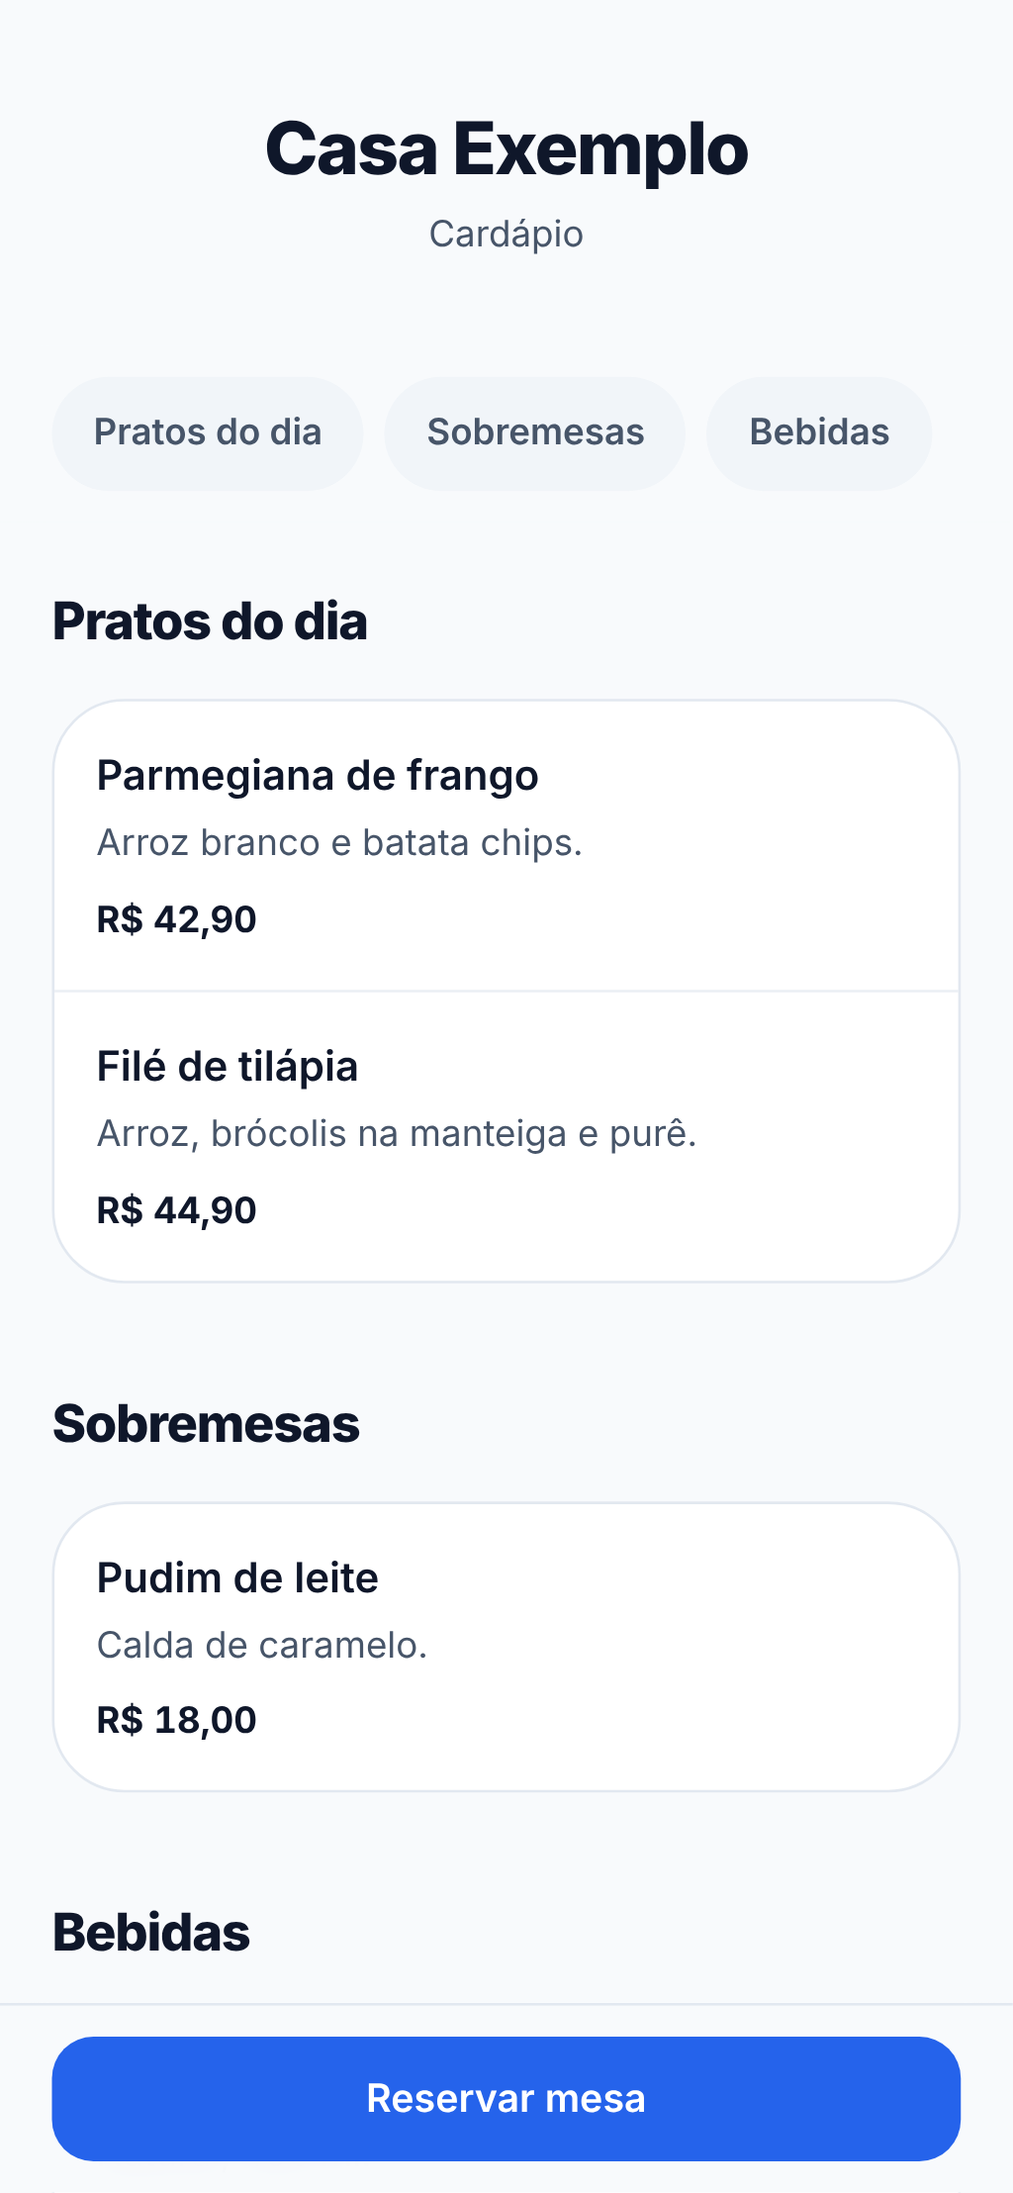
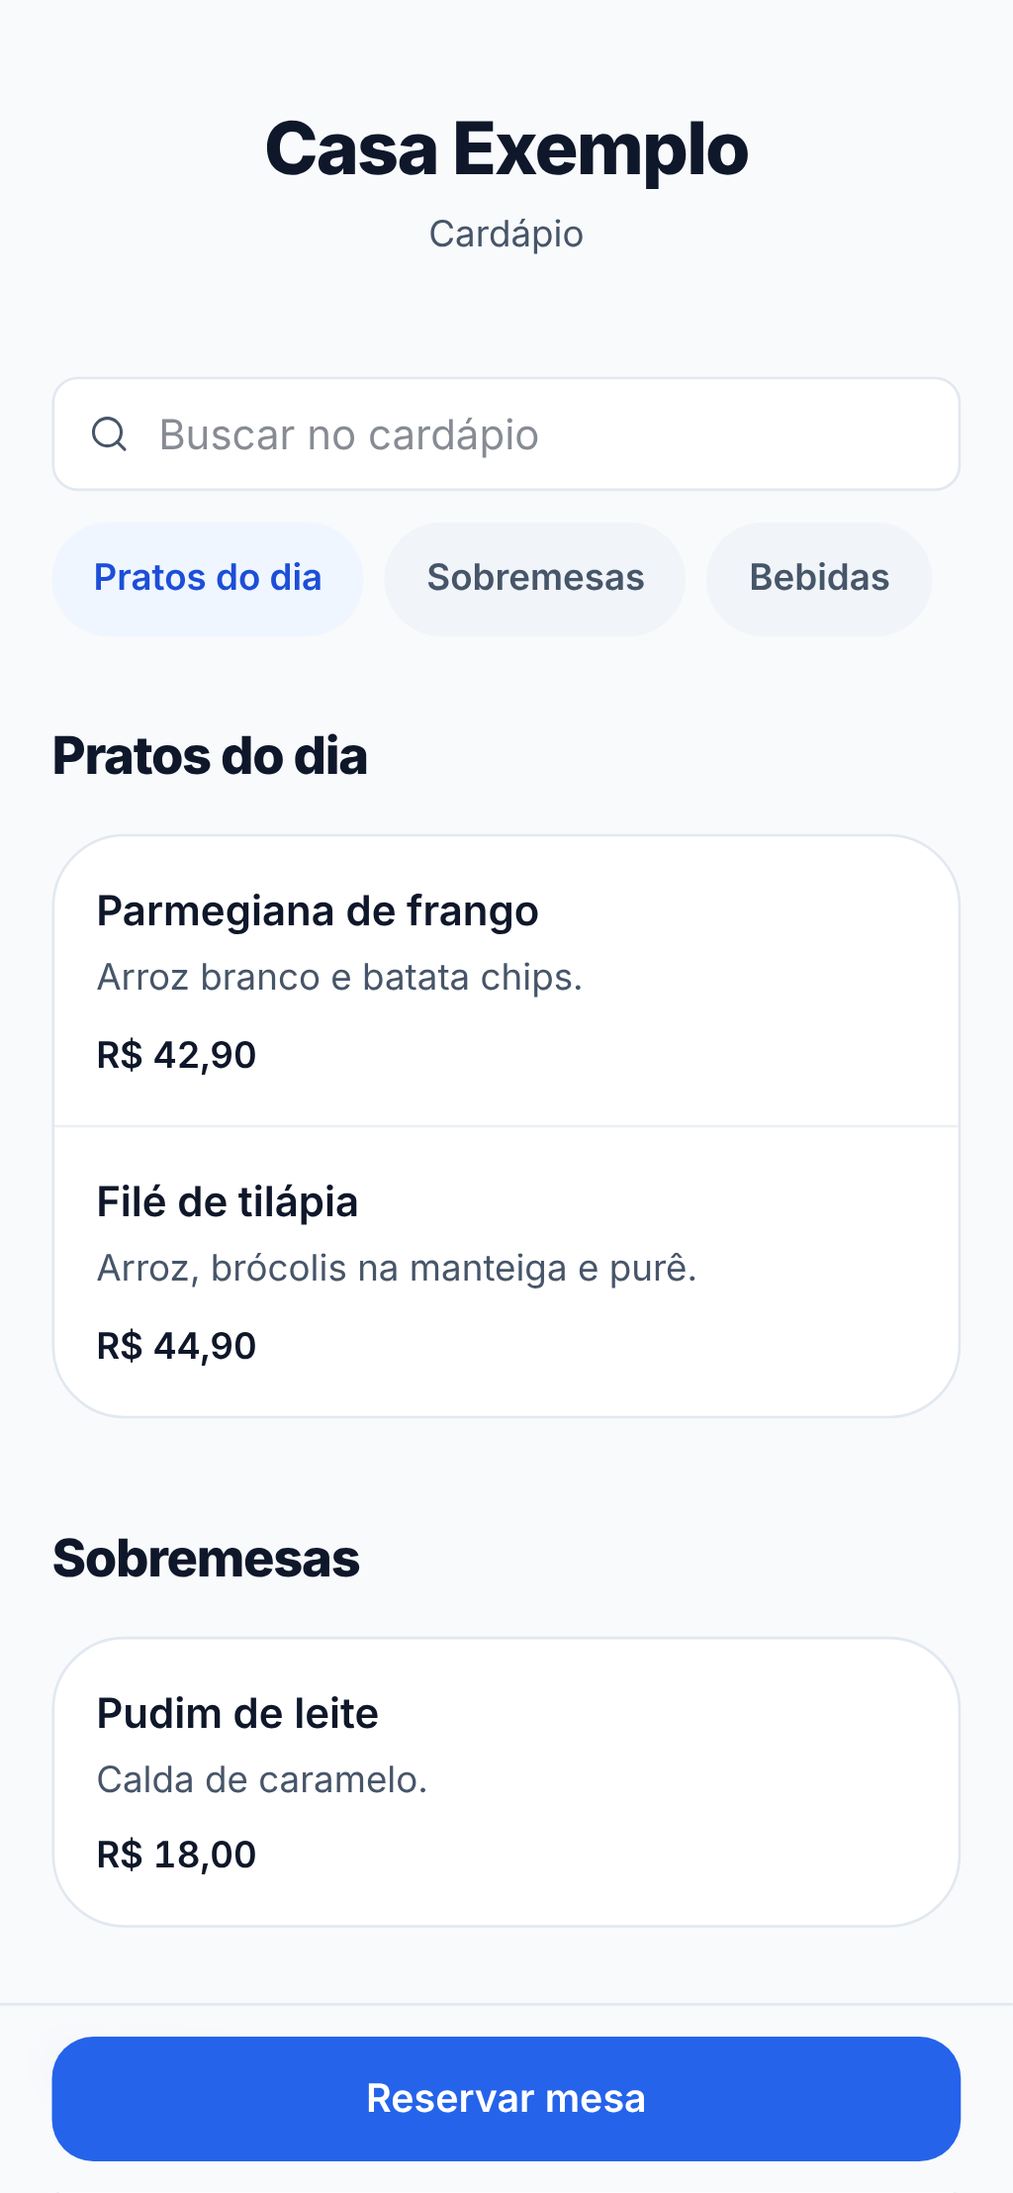
chore(polish): alias brand no lugar de terracotta, sem peso 700, QA responsivo em 14 tamanhos, screenshots do site recapturados, docs de arquitetura
Claude-Session: https://claude.ai/code/session_01EQxCH93FwfJ8YpbqgebvWk

diff --git a/src/routes/$slug.reservar.$tipo.tsx b/src/routes/$slug.reservar.$tipo.tsx
@@ -253,7 +253,7 @@ function ReservarPage() {
         </Link>
 
         <header className="mt-6 animate-fade">
-          <p className="text-xs font-semibold uppercase tracking-[0.08em] text-terracotta">
+          <p className="text-xs font-semibold uppercase tracking-[0.08em] text-brand">
             {tenantQ.data?.nome ?? "Reserva"}
           </p>
           <h1 className="mt-3 font-serif text-4xl leading-tight tracking-tight sm:text-5xl">
@@ -275,24 +275,24 @@ function ReservarPage() {
         </header>
 
         {isAniv && (
-          <section className="mt-6 rounded-lg border border-terracotta/25 bg-terracotta/5 p-5 animate-in-up">
+          <section className="mt-6 rounded-lg border border-brand/25 bg-brand/5 p-5 animate-in-up">
             <p className="font-serif font-semibold text-xl leading-snug sm:text-2xl">
               Vai ser um prazer comemorar seu aniversário no {tenantQ.data?.nome ?? "Iracema"}!
             </p>
             <ul className="mt-4 space-y-3 text-sm leading-relaxed text-muted-foreground">
               <li className="flex gap-2.5">
-                <Gift className="mt-0.5 h-4 w-4 shrink-0 text-terracotta" />
+                <Gift className="mt-0.5 h-4 w-4 shrink-0 text-brand" />
                 <span>
                   O aniversariante da semana ganha um drink ou uma sobremesa e também 10% do valor
                   gasto na própria comanda em cashback para uma próxima visita.
                 </span>
               </li>
               <li className="flex gap-2.5">
-                <Receipt className="mt-0.5 h-4 w-4 shrink-0 text-terracotta" />
+                <Receipt className="mt-0.5 h-4 w-4 shrink-0 text-brand" />
                 <span>A partir de 15 convidados, disponibilizamos comandas individuais.</span>
               </li>
               <li className="flex gap-2.5">
-                <Cake className="mt-0.5 h-4 w-4 shrink-0 text-terracotta" />
+                <Cake className="mt-0.5 h-4 w-4 shrink-0 text-brand" />
                 <span>
                   Pode trazer seu bolo! Nós guardamos e disponibilizamos pratos e talheres.
                 </span>
@@ -301,7 +301,7 @@ function ReservarPage() {
           </section>
         )}
         {isEvento && (
-          <section className="mt-6 space-y-4 rounded-lg border border-terracotta/25 bg-terracotta/5 p-5 animate-in-up">
+          <section className="mt-6 space-y-4 rounded-lg border border-brand/25 bg-brand/5 p-5 animate-in-up">
             <div>
               <p className="font-serif font-semibold text-xl leading-snug sm:text-2xl">
                 Orçamento — eventos particulares
@@ -313,7 +313,7 @@ function ReservarPage() {
 
             <div className="grid gap-4 sm:grid-cols-2">
               <div className="rounded-lg bg-card p-4">
-                <p className="flex items-center gap-2 text-xs font-semibold uppercase tracking-[0.08em] text-terracotta">
+                <p className="flex items-center gap-2 text-xs font-semibold uppercase tracking-[0.08em] text-brand">
                   <UtensilsCrossed className="h-3.5 w-3.5" /> Petiscos
                 </p>
                 <ul className="mt-2.5 space-y-1 text-sm text-muted-foreground">
@@ -327,7 +327,7 @@ function ReservarPage() {
               </div>
 
               <div className="rounded-lg bg-card p-4">
-                <p className="flex items-center gap-2 text-xs font-semibold uppercase tracking-[0.08em] text-terracotta">
+                <p className="flex items-center gap-2 text-xs font-semibold uppercase tracking-[0.08em] text-brand">
                   <Beer className="h-3.5 w-3.5" /> Bebidas
                 </p>
                 <ul className="mt-2.5 space-y-1 text-sm text-muted-foreground">
@@ -340,7 +340,7 @@ function ReservarPage() {
             </div>
 
             <div className="rounded-lg bg-card p-4">
-              <p className="flex items-center gap-2 text-xs font-semibold uppercase tracking-[0.08em] text-terracotta">
+              <p className="flex items-center gap-2 text-xs font-semibold uppercase tracking-[0.08em] text-brand">
                 <Receipt className="h-3.5 w-3.5" /> Valores (5 horas de evento)
               </p>
               <ul className="mt-2.5 space-y-1.5 text-sm">
@@ -367,7 +367,7 @@ function ReservarPage() {
             </div>
 
             <p className="flex gap-2.5 text-sm leading-relaxed text-muted-foreground">
-              <Wallet className="mt-0.5 h-4 w-4 shrink-0 text-terracotta" />
+              <Wallet className="mt-0.5 h-4 w-4 shrink-0 text-brand" />
               <span>Pagamento: 50% de sinal no ato da reserva e 50% restante no dia.</span>
             </p>
           </section>
@@ -434,7 +434,7 @@ function ReservarPage() {
           </div>
 
           {precisaHorario && ehFeriado && (
-            <p className="-mt-2 text-xs text-terracotta">
+            <p className="-mt-2 text-xs text-brand">
               {data && new Date(data + "T00:00:00").toLocaleDateString("pt-BR")} é feriado —
               horários de fim de semana.
             </p>
@@ -546,7 +546,7 @@ function ReservarPage() {
           <Button
             type="submit"
             disabled={!podeEnviar || enviando}
-            className="mt-2 w-full rounded-lg bg-terracotta text-terracotta-foreground hover:bg-blue-700 disabled:opacity-50"
+            className="mt-2 w-full rounded-lg bg-brand text-brand-foreground hover:bg-blue-700 disabled:opacity-50"
             style={{ height: 52 }}
           >
             {enviando ? (

diff --git a/src/routes/$slug.index.tsx b/src/routes/$slug.index.tsx
@@ -117,7 +117,7 @@ function TenantHome() {
               className="mb-4 h-14 w-auto object-contain"
             />
           )}
-          <p className="text-xs font-semibold uppercase tracking-[0.08em] text-terracotta">
+          <p className="text-xs font-semibold uppercase tracking-[0.08em] text-brand">
             {tenant.nome}
           </p>
           <h1 className="mt-6 font-serif text-[44px] leading-[1.05] tracking-tight text-foreground sm:text-6xl">
@@ -130,7 +130,7 @@ function TenantHome() {
         </header>
 
         {eventoQ.data && (
-          <div className="mt-8 overflow-hidden rounded-lg border border-terracotta/25 bg-terracotta/5 animate-in-up">
+          <div className="mt-8 overflow-hidden rounded-lg border border-brand/25 bg-brand/5 animate-in-up">
             {eventoQ.data.imagem_url && (
               <img
                 src={eventoQ.data.imagem_url}
@@ -139,13 +139,13 @@ function TenantHome() {
               />
             )}
             <div className="p-5">
-              <p className="flex items-center gap-1.5 text-xs font-semibold uppercase tracking-[0.08em] text-terracotta">
+              <p className="flex items-center gap-1.5 text-xs font-semibold uppercase tracking-[0.08em] text-brand">
                 <PartyPopper className="h-3.5 w-3.5" /> Evento em destaque
               </p>
               <p className="mt-2 font-serif font-semibold text-2xl leading-snug text-foreground">
                 {eventoQ.data.titulo}
               </p>
-              <p className="mt-1 text-sm font-medium text-terracotta">
+              <p className="mt-1 text-sm font-medium text-brand">
                 {formatData(eventoQ.data.data)}
                 {eventoQ.data.horario ? ` às ${formatHorario(eventoQ.data.horario)}` : ""}
               </p>
@@ -169,10 +169,10 @@ function TenantHome() {
                 onClick={() =>
                   trackFacebookCustomEvent(tenant.pixel_facebook_id, CLICK_RESERVA_EVENT[card.tipo])
                 }
-                className="group relative flex items-center gap-4 rounded-lg border border-border bg-card px-5 py-4 shadow-[var(--shadow-sm)] transition-all duration-200 hover:-translate-y-0.5 hover:border-terracotta/40 hover:shadow-[var(--shadow-md)] active:scale-[0.99] animate-in-up"
+                className="group relative flex items-center gap-4 rounded-lg border border-border bg-card px-5 py-4 shadow-[var(--shadow-sm)] transition-all duration-200 hover:-translate-y-0.5 hover:border-brand/40 hover:shadow-[var(--shadow-md)] active:scale-[0.99] animate-in-up"
                 style={{ animationDelay: `${60 + i * 50}ms` }}
               >
-                <div className="flex h-11 w-11 shrink-0 items-center justify-center rounded-md bg-cream text-terracotta transition-colors group-hover:bg-terracotta group-hover:text-terracotta-foreground">
+                <div className="flex h-11 w-11 shrink-0 items-center justify-center rounded-md bg-cream text-brand transition-colors group-hover:bg-brand group-hover:text-brand-foreground">
                   <Icon className="h-5 w-5" strokeWidth={1.75} />
                 </div>
                 <div className="min-w-0 flex-1">
@@ -181,7 +181,7 @@ function TenantHome() {
                     {card.descricao}
                   </p>
                 </div>
-                <ArrowRight className="h-4 w-4 shrink-0 text-muted-foreground transition-transform group-hover:translate-x-0.5 group-hover:text-terracotta" />
+                <ArrowRight className="h-4 w-4 shrink-0 text-muted-foreground transition-transform group-hover:translate-x-0.5 group-hover:text-brand" />
               </Link>
             );
           })}

diff --git a/e2e/responsivo.spec.ts b/e2e/responsivo.spec.ts
@@ -1,0 +1,81 @@
+import { expect, test } from "@playwright/test";
+
+import { installMock } from "./support/mock";
+
+/** QA responsivo: sem rolagem horizontal nem corte nas telas principais, em todos os tamanhos. */
+const TAMANHOS: Array<[string, number, number]> = [
+  ["mobile 320", 320, 568],
+  ["mobile 360", 360, 800],
+  ["mobile 390", 390, 844],
+  ["mobile 393", 393, 852],
+  ["mobile 430", 430, 932],
+  ["tablet 768", 768, 1024],
+  ["tablet 820", 820, 1180],
+  ["tablet 834", 834, 1194],
+  ["tablet 1024", 1024, 1366],
+  ["desktop 1280", 1280, 720],
+  ["desktop 1366", 1366, 768],
+  ["desktop 1440", 1440, 900],
+  ["desktop 1536", 1536, 864],
+  ["desktop 1920", 1920, 1080],
+];
+
+const PAGINAS = [
+  "/",
+  "/iracema",
+  "/iracema/links",
+  "/iracema/cardapio",
+  "/iracema/reservar/mesa",
+  "/iracema/admin",
+  "/iracema/admin/reservas",
+  "/iracema/admin/agenda",
+  "/iracema/admin/links",
+  "/iracema/admin/cardapio",
+  "/iracema/admin/configuracoes",
+];
+
+test.describe("QA responsivo", () => {
+  test.skip(({ isMobile }) => isMobile, "os tamanhos são definidos no próprio teste");
+
+  for (const [nome, w, h] of TAMANHOS) {
+    test(`sem overflow horizontal em ${nome}`, async ({ page, context }) => {
+      test.setTimeout(120_000);
+      await installMock(context);
+      await page.setViewportSize({ width: w, height: h });
+      for (const rota of PAGINAS) {
+        await page.goto(rota);
+        await page.waitForTimeout(450);
+        const over = await page.evaluate(
+          () => document.documentElement.scrollWidth - document.documentElement.clientWidth,
+        );
+        expect(over, `${rota} em ${w}x${h}`).toBeLessThanOrEqual(1);
+      }
+    });
+  }
+
+  test("alvos de toque do painel e do Link Hub têm pelo menos 44 px no celular", async ({
+    page,
+    context,
+  }) => {
+    await installMock(context);
+    await page.setViewportSize({ width: 390, height: 844 });
+    for (const rota of ["/iracema/links", "/iracema/admin"]) {
+      await page.goto(rota);
+      await page.waitForTimeout(500);
+      const pequenos = await page.evaluate(() =>
+        Array.from(document.querySelectorAll<HTMLElement>("a[href], button"))
+          .filter((el) => {
+            const r = el.getBoundingClientRect();
+            const visivel =
+              r.width > 0 && r.height > 0 && getComputedStyle(el).visibility !== "hidden";
+            return visivel && (r.height < 43.5 || r.width < 43.5);
+          })
+          .map(
+            (el) =>
+              `${el.tagName} "${(el.textContent ?? el.getAttribute("aria-label") ?? "").trim().slice(0, 30)}" ${Math.round(el.getBoundingClientRect().width)}x${Math.round(el.getBoundingClientRect().height)}`,
+          ),
+      );
+      expect(pequenos, rota).toEqual([]);
+    }
+  });
+});

diff --git a/src/routes/master.index.tsx b/src/routes/master.index.tsx
@@ -189,7 +189,7 @@ function MasterPanel() {
               </div>
               <Button
                 onClick={() => setOpenNew(true)}
-                className="h-11 rounded-md bg-terracotta text-terracotta-foreground hover:bg-blue-700"
+                className="h-11 rounded-md bg-brand text-brand-foreground hover:bg-blue-700"
               >
                 <Plus className="mr-1.5 h-4 w-4" /> Nova empresa
               </Button>
@@ -410,7 +410,7 @@ function NovoTenantDialog({
             <Button
               type="submit"
               disabled={pending}
-              className="bg-terracotta text-terracotta-foreground hover:bg-blue-700"
+              className="bg-brand text-brand-foreground hover:bg-blue-700"
             >
               {pending ? <Loader2 className="h-4 w-4 animate-spin" /> : "Criar"}
             </Button>
@@ -693,7 +693,7 @@ function AcessosDialog({
             <Button
               type="submit"
               disabled={criarM.isPending}
-              className="bg-terracotta text-terracotta-foreground hover:bg-blue-700"
+              className="bg-brand text-brand-foreground hover:bg-blue-700"
             >
               {criarM.isPending ? <Loader2 className="h-4 w-4 animate-spin" /> : "Adicionar"}
             </Button>

diff --git a/src/styles.css b/src/styles.css
@@ -107,8 +107,8 @@
   --color-input: var(--input);
   --color-ring: var(--ring);
   /* Nomes historicos mantidos (muitos consumidores); valores agora sao Teggly. */
-  --color-terracotta: var(--terracotta);
-  --color-terracotta-foreground: var(--terracotta-foreground);
+  --color-brand: var(--brand);
+  --color-brand-foreground: var(--brand-foreground);
   --color-cream: var(--cream);
   --color-brown: var(--brown);
   --color-success: var(--success);
@@ -149,8 +149,8 @@
   --ring: #3b82f6;
 
   /* Tokens historicos do produto, agora na paleta Teggly */
-  --terracotta: #2563eb; /* acento forte (icones, links, CTA secundario) */
-  --terracotta-foreground: #ffffff;
+  --brand: #2563eb; /* acento forte (icones, links, CTA secundario) */
+  --brand-foreground: #ffffff;
   --cream: #eff6ff; /* fundo claro dos chips de icone (blue-50) */
   --brown: #0f172a; /* faixas e rodapes escuros (Dark Navy) */
   --success: #10b981; /* sinal; texto de estado usa success-700 */
@@ -180,8 +180,8 @@
   --border: #1e293b;
   --input: #1e293b;
   --ring: #60a5fa;
-  --terracotta: #60a5fa;
-  --terracotta-foreground: #0f172a;
+  --brand: #60a5fa;
+  --brand-foreground: #0f172a;
   --cream: #172554;
   --brown: #020617;
 }

diff --git a/src/routes/$slug.admin.eventos.tsx b/src/routes/$slug.admin.eventos.tsx
@@ -213,13 +213,13 @@ function EventosPage() {
               {futuros.map((e: EventoRow, i: number) => (
                 <li
                   key={e.id}
-                  className={`flex items-center gap-3 rounded-lg border bg-card p-4 ${i === 0 ? "border-terracotta/40" : "border-border"}`}
+                  className={`flex items-center gap-3 rounded-lg border bg-card p-4 ${i === 0 ? "border-brand/40" : "border-border"}`}
                 >
                   <div className="min-w-0 flex-1">
                     <div className="flex items-center gap-2">
                       <p className="font-medium">{e.titulo}</p>
                       {i === 0 && (
-                        <span className="rounded-full bg-terracotta/15 px-2 py-0.5 text-xs font-medium text-terracotta">
+                        <span className="rounded-full bg-brand/15 px-2 py-0.5 text-xs font-medium text-brand">
                           No ar agora
                         </span>
                       )}

diff --git a/src/routes/$slug.admin.configuracoes.tsx b/src/routes/$slug.admin.configuracoes.tsx
@@ -56,7 +56,7 @@ function ConfiguracoesPage() {
   const [telefone, setTelefone] = useState("");
   const [email, setEmail] = useState("");
   const [whatsapp, setWhatsapp] = useState("");
-  const [cor, setCor] = useState("#B4552D");
+  const [cor, setCor] = useState("#2563EB");
   const [tipos, setTipos] = useState<ReservaTipo[]>([]);
   const [mensagem, setMensagem] = useState("");
   const [mensagemCancelamento, setMensagemCancelamento] = useState("");
@@ -74,7 +74,7 @@ function ConfiguracoesPage() {
     setTelefone(tenant.telefone_contato ?? "");
     setEmail(tenant.email_contato ?? "");
     setWhatsapp(tenant.whatsapp ?? "");
-    setCor(tenant.cor_primaria ?? "#B4552D");
+    setCor(tenant.cor_primaria ?? "#2563EB");
     setTipos((tenant.tipos_aceitos ?? []) as ReservaTipo[]);
     setMensagem(tenant.mensagem_confirmacao ?? DEFAULT_MENSAGEM_CONFIRMACAO);
     setMensagemCancelamento(tenant.mensagem_cancelamento ?? DEFAULT_MENSAGEM_CANCELAMENTO);

diff --git a/src/components/admin/ReservaForms.tsx b/src/components/admin/ReservaForms.tsx
@@ -164,9 +164,9 @@ export function CancelFields({
     <div className="space-y-4 text-sm">
       <button
         onClick={onRemarcar}
-        className="w-full rounded-lg border border-terracotta/30 bg-terracotta/5 p-4 text-left transition-colors hover:bg-terracotta/10"
+        className="w-full rounded-lg border border-brand/30 bg-brand/5 p-4 text-left transition-colors hover:bg-brand/10"
       >
-        <p className="font-medium text-terracotta">Remarcar em vez de cancelar</p>
+        <p className="font-medium text-brand">Remarcar em vez de cancelar</p>
         <p className="mt-1 text-xs text-muted-foreground">
           Altere a data ou o horário e mantenha a reserva — o cliente não precisa fazer tudo de
           novo.

diff --git a/src/components/admin/MensagemDoDia.tsx b/src/components/admin/MensagemDoDia.tsx
@@ -142,7 +142,7 @@ export function MensagemDoDiaButton({ tenantId }: { tenantId: string | null }) {
         onClick={() => setOpen(true)}
         className="inline-flex h-11 items-center gap-2 rounded-full border border-border bg-card px-3.5 text-xs font-semibold text-foreground transition-colors hover:bg-accent xl:h-9"
       >
-        <MessageSquareText className="h-3.5 w-3.5 text-terracotta" /> Gerar mensagem do dia
+        <MessageSquareText className="h-3.5 w-3.5 text-brand" /> Gerar mensagem do dia
       </button>
 
       <Dialog open={open} onOpenChange={setOpen}>

diff --git a/src/routes/$slug.acompanhar.index.tsx b/src/routes/$slug.acompanhar.index.tsx
@@ -53,9 +53,7 @@ function AcompanharPage() {
         </Link>
 
         <header className="mt-6 animate-fade">
-          <p className="text-xs font-semibold uppercase tracking-[0.08em] text-terracotta">
-            Acompanhar
-          </p>
+          <p className="text-xs font-semibold uppercase tracking-[0.08em] text-brand">Acompanhar</p>
           <h1 className="mt-3 font-serif text-4xl leading-tight tracking-tight">Sua reserva</h1>
           <p className="mt-2 text-sm text-muted-foreground">
             Informe o código recebido após enviar a solicitação.

diff --git a/src/routes/$slug.obrigado.tsx b/src/routes/$slug.obrigado.tsx
@@ -48,7 +48,7 @@ function Obrigado() {
   return (
     <main className="flex min-h-screen items-center justify-center bg-background px-6 safe-top safe-bottom">
       <div className="w-full max-w-md text-center animate-in-up">
-        <div className="mx-auto flex animate-drop h-14 w-14 items-center justify-center rounded-full bg-terracotta/10 text-terracotta">
+        <div className="mx-auto flex animate-drop h-14 w-14 items-center justify-center rounded-full bg-brand/10 text-brand">
           <Check className="h-6 w-6" strokeWidth={2.25} />
         </div>
 

diff --git a/src/routes/$slug.admin.relatorios.tsx b/src/routes/$slug.admin.relatorios.tsx
@@ -152,7 +152,7 @@ function RelatoriosPage() {
                 <ul className="grid grid-cols-2 gap-3">
                   {STATUS_LIST.map((s) => (
                     <li key={s} className="rounded-lg bg-muted/50 p-3">
-                      <p className="text-2xl font-bold tabular-nums">{rel.porStatus[s]}</p>
+                      <p className="text-2xl font-extrabold tabular-nums">{rel.porStatus[s]}</p>
                       <p className="mt-0.5 text-xs text-muted-foreground">{STATUS_LABEL[s]}</p>
                     </li>
                   ))}
